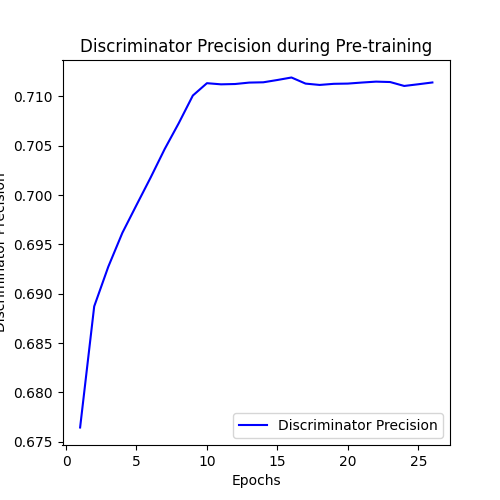
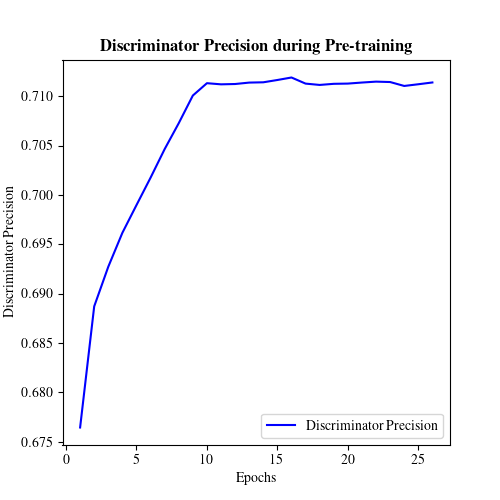
added evaluation script which can now build the predicted answers - still need to add metrics

diff --git a/Code/src/evaluation.py b/Code/src/evaluation.py
@@ -1,6 +1,3 @@
-import os
-import sys
-import torch
 from datasets import load_metric
 import argparse
 from tqdm import tqdm
@@ -9,7 +6,12 @@ from fine_tuning import datasets, build_finetuned_from_checkpoint
 from models import *
 from utils import *
 from data_processing import convert_samples_to_features, SQuADDataset, collate_wrapper
-from torch.utils.data import DataLoader, RandomSampler
+from torch.utils.data import DataLoader
+
+"""
+BioASQ metrics:
+    - 
+"""
 
 accuracy = load_metric("accuracy")
 f1 = load_metric("f1")
@@ -34,7 +36,13 @@ def exact_match():
 metrics = {}
 
 
-def evaluate(finetuned_model, test_dataloader):
+"""
+Refer to the following code
+https://huggingface.co/transformers/task_summary.html#extractive-question-answering
+"""
+
+def evaluate(finetuned_model, test_dataloader, tokenizer):
+
     step_iterator = tqdm(test_dataloader, desc="Step")
 
     for eval_step, batch in enumerate(step_iterator):
@@ -50,10 +58,50 @@ def evaluate(finetuned_model, test_dataloader):
             "token_type_ids": batch.token_type_ids,
         }
 
-        outputs = finetuned_model(**inputs)
-        print(outputs)
-
         # model outputs are always tuples in transformers
+        outputs = finetuned_model(**inputs)
+
+        answer_start_logits = outputs.start_logits
+        answer_end_logits = outputs.end_logits
+
+        print("Start logits", answer_start_logits)
+        print("End logits", answer_end_logits)
+
+        # dim=1 makes sure we produce an answer start for each x in batch
+        answer_start = torch.argmax(answer_start_logits, dim=1)  # Get the most likely beginning of answer with the argmax of the score
+        answer_end = torch.argmax(answer_end_logits, dim=1) + 1  # Get the most likely end of answer with the argmax of the score
+
+        # pair the start and end positions
+        start_end_positions = zip(answer_start, answer_end)
+
+        print('input ids 0', batch.input_ids[0])
+        print('answer text 0', batch.answer_text[0])
+
+        # print(start_end_positions)
+        # print("Start pos", answer_start)
+        # print("End pos", answer_end)
+
+        # print([(i, s, e) for i, s, e in start_end_positions])
+        special_tokens = {tokenizer.unk_token, tokenizer.sep_token, tokenizer.pad_token}
+        # convert the start and end positions to answers.
+        for index, (s, e) in enumerate(start_end_positions):
+            input_ids = batch.input_ids[index]
+            expected_answer = batch.answer_text[index]
+
+            tokens = tokenizer.convert_ids_to_tokens(input_ids)
+            # print('s: {}, e: {}'.format(s, e))
+            clipped_tokens = [t for t in tokens[int(s):int(e)] if t not in special_tokens]
+            # print('clipped tokens', clipped_tokens)
+            predicted_answer = tokenizer.convert_tokens_to_string(clipped_tokens)
+            print('Predicted Answer: {}, Expected Answer: {}'.format(predicted_answer, expected_answer))
+
+        #
+        # answers = [tokenizer.convert_tokens_to_string(tokenizer.convert_ids_to_tokens(i[int(s):int(e)]))
+        #            for index, s, e in enumerate(start_end_positions)]
+        #
+
+        # print('Answers', answers)
+
 
 
 
@@ -75,7 +123,7 @@ if __name__ == "__main__":
     parser = argparse.ArgumentParser(description='Overwrite default fine-tuning settings.')
     parser.add_argument(
         "--f-checkpoint",
-        default="small_factoid_22_87883_0_45",  # we can no longer use recent here - got to get specific :(
+        default="small_factoid_26_11229_1_73",  # we can no longer use recent here - got to get specific :(
         type=str,
         help="The name of the fine-tuning checkpoint to use e.g. small_factoid_15_10230_2_30487",
     )
@@ -156,5 +204,5 @@ if __name__ == "__main__":
                                              finetune_checkpoint_dir, checkpoint_name, question_type, config)
 
     # ------ START THE EVALUATION PROCESS ------
-    evaluate(electra_for_qa, data_loader)
+    evaluate(electra_for_qa, data_loader, electra_tokenizer)
     # todo what happens if we start from a checkpoint here (vs passing a checkpoint from fine-tuning)

diff --git a/Code/src/visualise_pretraining.py b/Code/src/visualise_pretraining.py
@@ -1,13 +1,19 @@
 import matplotlib.pyplot as plt
+from matplotlib import rc
 import os
 import torch
 from pathlib import Path
 import pickle
 
+rc('font', **{'family': 'serif', 'serif': ['Times']})
+rc('text', usetex=True)
+
+
 base_path = Path(__file__).parent
 checkpoint_dir = (base_path / '../checkpoints/pretrain').resolve()
 graphs_path = (base_path / 'visualisations/pre_training_graphs').resolve()
 Path(graphs_path).mkdir(exist_ok=True, parents=True)
+
 
 
 def draw_graph(graph_title, data, data_label, epochs, checkpoint_name, y_label=None, more_data=None,
@@ -16,7 +22,7 @@ def draw_graph(graph_title, data, data_label, epochs, checkpoint_name, y_label=N
     if more_data is not None:
         plt.plot(epochs, more_data, label=more_data_label)
 
-    plt.title(graph_title)
+    plt.title(r"\textbf{" + graph_title + "}")
     plt.xlabel("Epochs")
     y_label = y_label if y_label is not None else data_label
     graph_save_name = checkpoint_name + "_" + y_label.lower().replace(" ", "_") + "_epochs.png"
@@ -30,7 +36,7 @@ def draw_graph(graph_title, data, data_label, epochs, checkpoint_name, y_label=N
     return plt
 
 
-def load_stats_from_checkpoint(path_to_checkpoint, checkpoint_name):
+def load_stats_from_checkpoint(path_to_checkpoint):
     path_to_loss_fc = os.path.join(path_to_checkpoint, "loss_function.pkl")
     print(path_to_loss_fc)
     if os.path.isfile(path_to_loss_fc):
@@ -59,6 +65,7 @@ def create_subplots(statistics, checkpoint_name):
     num_epochs = range(1, len(generator_losses) + 1)
     fig = plt.figure(0, figsize=(8, 8))
     fig.tight_layout(rect=[0, 0.03, 1, 0.95])
+    axis_font_size = 12
     # fig.suptitle("Statistics during Pre-training", fontsize=12, fontweight="bold", y=0.96)
 
     # Note: we don't include this in the subplots for now. It can be a standalone graph.
@@ -81,6 +88,7 @@ def create_subplots(statistics, checkpoint_name):
                checkpoint_name=checkpoint_name,
                color="b",
                save_figure=False)
+    for item in ([plt.gca().xaxis.label, plt.gca().yaxis.label]): item.set_fontsize(axis_font_size)
 
 
     print("Creating graph of Discriminator Accuracy")
@@ -92,6 +100,8 @@ def create_subplots(statistics, checkpoint_name):
                checkpoint_name=checkpoint_name,
                color="g",
                save_figure=False)
+    for item in ([plt.gca().xaxis.label, plt.gca().yaxis.label]): item.set_fontsize(axis_font_size)
+
 
 
     plt.subplot(2, 2, 3)
@@ -103,6 +113,8 @@ def create_subplots(statistics, checkpoint_name):
                checkpoint_name=checkpoint_name,
                color="r",
                save_figure=False)
+    for item in ([plt.gca().xaxis.label, plt.gca().yaxis.label]): item.set_fontsize(axis_font_size)
+
 
     plt.subplot(2, 2, 4)
     print("Creating graph of Discriminator Recall")
@@ -113,9 +125,11 @@ def create_subplots(statistics, checkpoint_name):
                checkpoint_name=checkpoint_name,
                color="c",
                save_figure=False)
+    for item in ([plt.gca().xaxis.label, plt.gca().yaxis.label]): item.set_fontsize(axis_font_size)
 
 
     plt.subplots_adjust(hspace=0.35, wspace=0.4)
+    plt.savefig((graphs_path / "pretraining_subplot.png").resolve())  # this is saving them weird due to subplots
     plt.show()
     print("\nGraph creation complete.\n")
 
@@ -179,6 +193,6 @@ if __name__ == "__main__":
         raise ValueError("Checkpoint name must be the name of a valid checkpoint e.g. small_10_50")
 
     checkpoint_path = (checkpoint_dir / chckpt_name).resolve()
-    stats = load_stats_from_checkpoint(checkpoint_path, chckpt_name)
+    stats = load_stats_from_checkpoint(checkpoint_path)
     create_subplots(stats, chckpt_name)
     create_separate_plots(stats, chckpt_name)

diff --git a/Code/src/data_processing.py b/Code/src/data_processing.py
@@ -47,7 +47,7 @@ skip_squad_question_ids = ["570d2681fed7b91900d45c65", '571a275210f8ca1400304f06
 
 
 class SQuADFeature:
-    def __init__(self, question_id, is_impossible, input_ids, attention_mask, token_type_ids, answer_start, answer_end):
+    def __init__(self, question_id, is_impossible, input_ids, attention_mask, token_type_ids, answer_start, answer_end, answer_text):
         self._question_id = question_id
         self._is_impossible = is_impossible
         self._input_ids = input_ids
@@ -55,6 +55,8 @@ class SQuADFeature:
         self._token_type_ids = token_type_ids
         self._answer_start = answer_start
         self._answer_end = answer_end
+        self._answer_text = answer_text
+
 
     def get_properties(self):
         return {
@@ -65,6 +67,7 @@ class SQuADFeature:
             "token_type_ids": self._token_type_ids,
             "answer_start": self._answer_start,
             "answer_end": self._answer_end,
+            "answer_text": self._answer_text,
         }
 
     def get_input_features(self):
@@ -76,6 +79,7 @@ class SQuADFeature:
             self._token_type_ids,
             self._answer_start,
             self._answer_end,
+            self._answer_text,
         )
 
 
@@ -300,7 +304,7 @@ def convert_samples_to_features(samples, tokenizer, max_length):
 
         # answer_start, answer_end, is_impossible
         feature = SQuADFeature(squad_example._question_id, squad_example._is_impossible, input_ids, attention_mask, token_type_ids, new_start,
-                               new_end)
+                               new_end, squad_example._answer)
 
 
 
@@ -321,9 +325,10 @@ class BatchInputFeatures:
         self.attention_mask = torch.LongTensor(transposed_data[3], device=device)
         self.token_type_ids = torch.LongTensor(transposed_data[4], device=device)
 
-        if len(transposed_data) == 7:  # assume fine-tuning mode with answer_start and answer_end
+        if len(transposed_data) == 8:  # assume fine-tuning mode with answer_start and answer_end
             self.answer_start = torch.LongTensor(transposed_data[5], device=device)
             self.answer_end = torch.LongTensor(transposed_data[6], device=device)
+            self.answer_text = list(transposed_data[7])
 
     # custom memory pinning method on custom type
     def pin_memory(self):
@@ -334,6 +339,8 @@ class BatchInputFeatures:
         self.token_type_ids = self.token_type_ids.pin_memory()
         self.answer_start = self.answer_start.pin_memory()
         self.answer_end = self.answer_end.pin_memory()
+        self.answer_text = self.answer_text.pin_memory()
+
         return self
 
 
